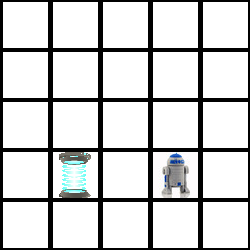
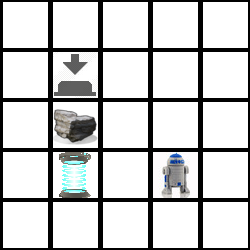
Fixed bug where grid initialization would loop forever

Changed region(s): [[0.196, 0.42, 0.392, 0.588], [0.196, 0.196, 0.392, 0.392]]

diff --git a/GridGenerator.py b/GridGenerator.py
@@ -8,10 +8,9 @@ def GenGrid(size):
     global m
     m = size
     global grid
+    grid = np.zeros((size, size))
 
-    grid = np.zeros((m, m))
-
-    rocks = np.random.randint(m)
+    rocks = np.random.randint(round(size/2))
     for n in range(rocks):
         placeRock()
         placePad()
@@ -19,7 +18,7 @@ def GenGrid(size):
         placeImmovable()
     placeTeleporter()
     placeR2D2()
-    v.renderGrid(grid, m, True)
+    v.renderGrid(grid, size, True)
     return grid
 
 
@@ -35,15 +34,13 @@ def placeR2D2():
     placeItem(2)
 
 def placeItem(itemCode):
-    placed = False
-
-    while placed == False:
+    while True:
         x = np.random.randint(m-1)
         y = np.random.randint(m-1)
         if y == 0 or y == m-1 or x == 0 or x == m-1:
             continue
         if grid[x][y] != 0:
             continue
-        else:
+        if grid[x][y] == 0:
             grid[x][y] = itemCode
-            placed = True
+            return

diff --git a/index.py b/index.py
@@ -55,7 +55,6 @@ def output(result_node, strategy):
         return
 
 def run(visualize):
-        print (colored("Thinking", 'red'))
         grid = GridGenerator.GenGrid(m)
         r2d2 = np.argwhere(grid==2)
         global initialState
@@ -73,6 +72,8 @@ def run(visualize):
 
 
         problem = SearchProblem.createSearchProblem(initialState, operators, goalTestFunction, pathCostFunction)
+        print (colored("Thinking", 'red'))
+
         for strategy in ["BFS", "DFS", "UC", "G", "A*"]:
             result_node = GenericSearch.Search(problem, strategy)
             output(result_node, strategy)

diff --git a/Visualizer.py b/Visualizer.py
@@ -45,6 +45,7 @@ def renderGrid(grid, m, initial=False):
                 renderCell(immovableImg, x, y, background)
     if initial == True:
         background.save('initial.png')
+        background.show()
 
     background.save('out.png')
 
